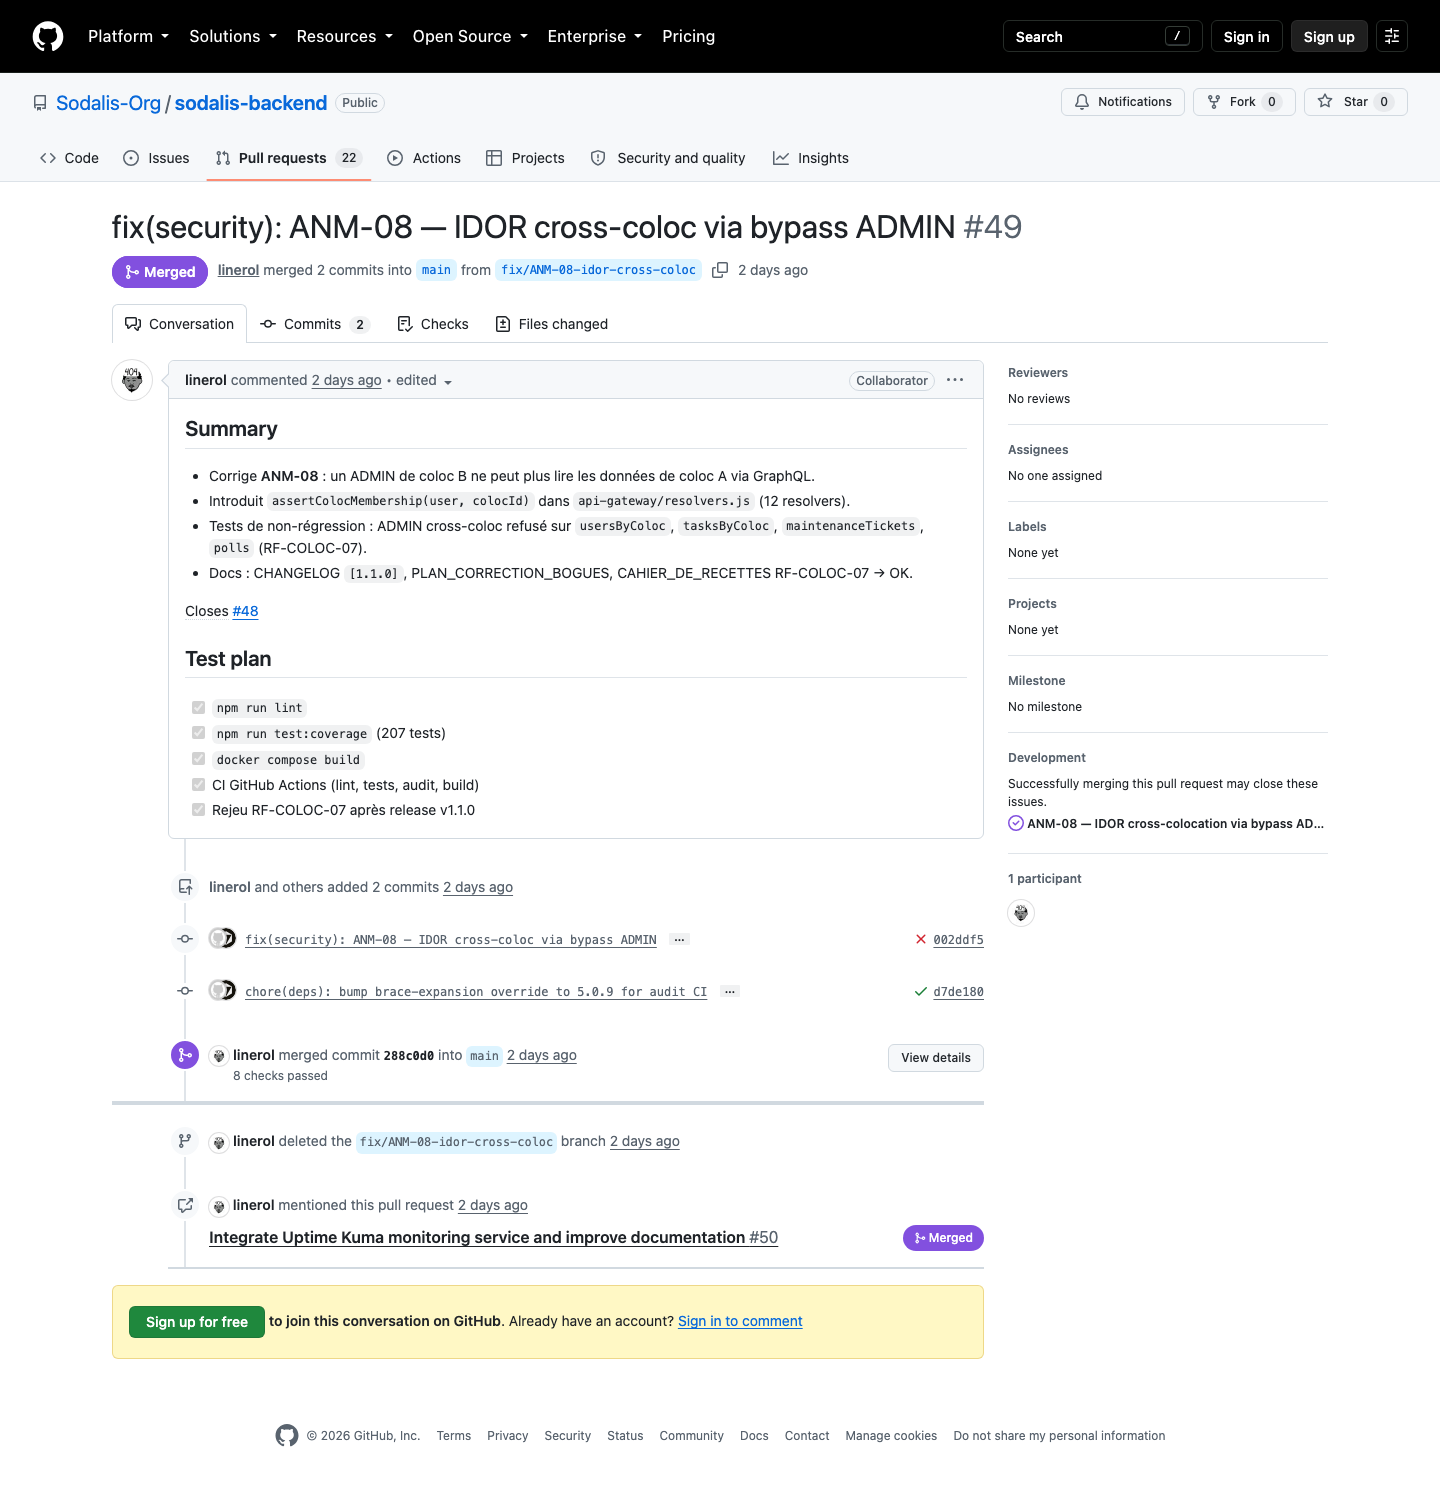
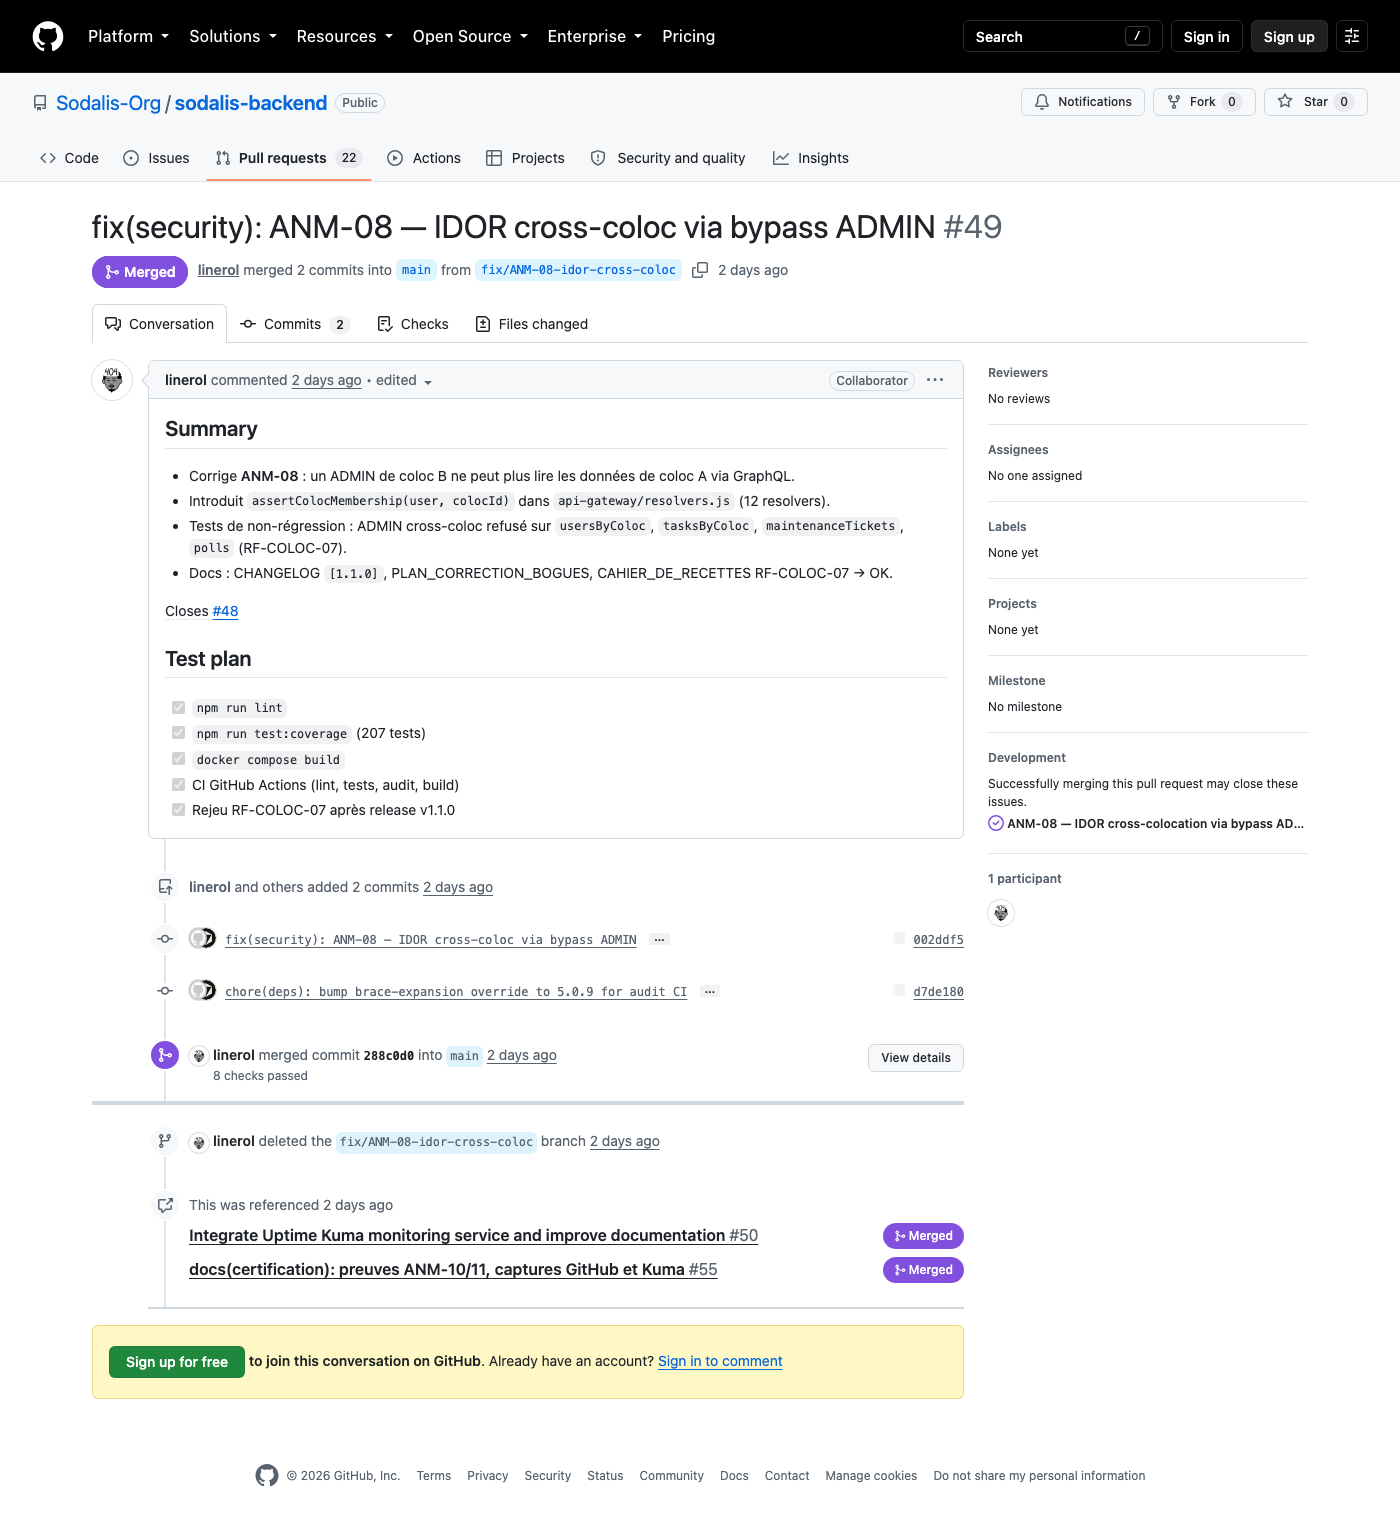
docs(certification): cohérence GHCR latest, issues #48/#52 et capture PR #49
Note l'exception historique latest sur v1.0.0, clarifie les rôles complémentaires
des issues #48 (analyse sécurité) et #52 (consignation reproduction), et met
à jour la capture PR #49 avec le plan de test entièrement coché.

diff --git a/PLAN_CORRECTION_BOGUES.md b/PLAN_CORRECTION_BOGUES.md
@@ -103,6 +103,10 @@ Détectée ──▶ Qualifiée ──▶ Priorisée ──▶ En correction ─
 - **Ampleur** : le même motif est utilisé pour `myColoc`, `usersByColoc`, `tasksByColoc`, `getColocDashboard`, `maintenanceTickets`, `notifications`, `complaints`, `polls`, `myRecentThanks`, `colocThanks`, `unreadNotificationsCount`, `createTask`, `markNotificationsRead`, etc. — un utilisateur ADMIN d'une coloc quelconque peut potentiellement lire (voire, pour certaines mutations, écrire) dans n'importe quelle autre colocation.
 - **Correctif appliqué (v1.1.0)** : helper `assertColocMembership(user, colocId)` dans `api-gateway/resolvers.js` — compare `String(user.coloc_id)` à `String(colocId)` sans bypass par rôle, appliqué aux 12 resolvers concernés.
 - **Test de non-régression** : `api-gateway/tests/resolvers.test.js` — cas « ADMIN d'une autre coloc » sur `usersByColoc`, `tasksByColoc`, `maintenanceTickets`, `polls` (RF-COLOC-07).
+- **Traçabilité GitHub** :
+  - **Issue [#48](https://github.com/Sodalis-Org/sodalis-backend/issues/48)** : fiche d'**analyse d'anomalie de sécurité** (contexte, cause racine, ampleur, correctif) — pas une fiche de reproduction utilisateur.
+  - **Reproduction** : scénario **RF-COLOC-07** dans `CAHIER_DE_RECETTES.md` + capture [`preuve du bug corrigé.png`](capture/anm-08/preuve%20du%20bug%20corrigé.png).
+  - **PR #49** + release v1.1.0 : livraison. Capture issue fermée : [`Issue ANM-08 (fermée).png`](capture/anm-08/Issue%20ANM-08%20(fermée).png) (issue #48 — analyse sécurité ANM-08).
 - **Statut** : Clôturée — corrigée, testée, livrée en v1.1.0 (issue #48).
 
 ### ANM-09 — Rate limiter `/auth` aveugle à l'IP réelle du client (découverte pendant cette recette)

diff --git a/MANUEL_MISE_A_JOUR.md b/MANUEL_MISE_A_JOUR.md
@@ -44,7 +44,7 @@ GHCR_OWNER=<owner> SODALIS_VERSION=v1.1.0 \
 # 6. Vérifier (section 6)
 ```
 
-Aucune reconstruction locale n'est nécessaire : les images sont déjà construites et publiées sur GHCR par le pipeline de livraison (`release.yml`), taguées par version SemVer et par SHA court, jamais `latest`.
+Aucune reconstruction locale n'est nécessaire : les images sont déjà construites et publiées sur GHCR par le pipeline de livraison (`release.yml`), taguées par version SemVer et par SHA court (politique `latest` : cf. `DEPLOYMENT.md` section 4).
 
 ## 4. Sauvegarde préalable des volumes de données
 
@@ -118,4 +118,4 @@ Politique unique — fréquence, périmètre et mode (automatique ou manuel) :
 
 ## 9. Justification des choix
 
-Ce manuel s'appuie sur les décisions documentées dans `ARCHITECTURE.md`, section 9. Le versionnement SemVer strict et l'immuabilité des images GHCR (jamais `latest`, cf. `DEPLOYMENT.md` section 4 et `SECURITY.md` A08) sont ce qui rend le retour arrière de la section 7 possible sans reconstruction : chaque version déployée reste disponible indéfiniment sur le registre, identifiable par son tag exact.
+Ce manuel s'appuie sur les décisions documentées dans `ARCHITECTURE.md`, section 9. Le versionnement SemVer strict et l'immuabilité des images GHCR (politique `latest` : cf. `DEPLOYMENT.md` section 4 et `SECURITY.md` A08) sont ce qui rend le retour arrière de la section 7 possible sans reconstruction : chaque version déployée reste disponible indéfiniment sur le registre, identifiable par son tag exact.

diff --git a/DEPLOYMENT.md b/DEPLOYMENT.md
@@ -86,8 +86,11 @@ Déclenché par le push d'un tag `v*.*.*` ([`release.yml`](.github/workflows/rel
    construit chaque image via `docker/build-push-action@v6` et la pousse sur
    `ghcr.io/<owner>/sodalis-<service>` avec trois tags : la version SemVer sans `v` (`X.Y.Z`),
    le tag Git brut (`vX.Y.Z`), et le SHA court du commit. Le tag `latest` n'est jamais utilisé —
-   l'immuabilité des versions livrées est le point démontré. La première publication GHCR sous
-   une organisation laisse les packages **privés** : leur passage en public se fait **une fois**
+   l'immuabilité des versions livrées est le point démontré (`latest=false` dans
+   [`release.yml`](.github/workflows/release.yml)). *Exception historique : la toute première
+   publication v1.0.0 (commit `a25894b`) porte encore le tag `latest`, posé avant cette règle ;
+   les versions suivantes ne le portent plus — ce que la capture section 6 montre.* La première
+   publication GHCR sous une organisation laisse les packages **privés** : leur passage en public se fait **une fois**
    dans l'UI (réglages org Packages, puis Package settings → Change visibility). Le token
    Actions `GITHUB_TOKEN` ne peut pas effectuer ce changement via l'API pour une org.
 4. **Création de la GitHub Release** — le job `github-release` extrait la section correspondante

diff --git a/SUPPORT_CASE_ANM10.md b/SUPPORT_CASE_ANM10.md
@@ -51,7 +51,7 @@ Document de traçabilité pour la boucle de support (étape 3 certification). Co
 | **Priorité** | Normale (UX, pas de perte de données) |
 | **Statut initial** | Détectée → Qualifiée → Priorisée |
 
-**Transcription issue GitHub** : issue #52 (créée par le support à partir de l'e-mail) :
+**Fiche de consignation GitHub** : issue [#52](https://github.com/Sodalis-Org/sodalis-backend/issues/52) (créée par le support à partir de l'e-mail) — remplit le critère « contient les informations permettant de reproduire le bogue » (trois étapes numérotées du template `bug_report.yml`). À distinguer de l'issue [#48](https://github.com/Sodalis-Org/sodalis-backend/issues/48) (ANM-08), qui documente une **analyse d'anomalie de sécurité** sans étapes utilisateur.
 
 - **Titre :** `[Bug] Vote sur sondage sans retour visuel en cas d'échec`
 - **Template :** `bug_report.yml`
